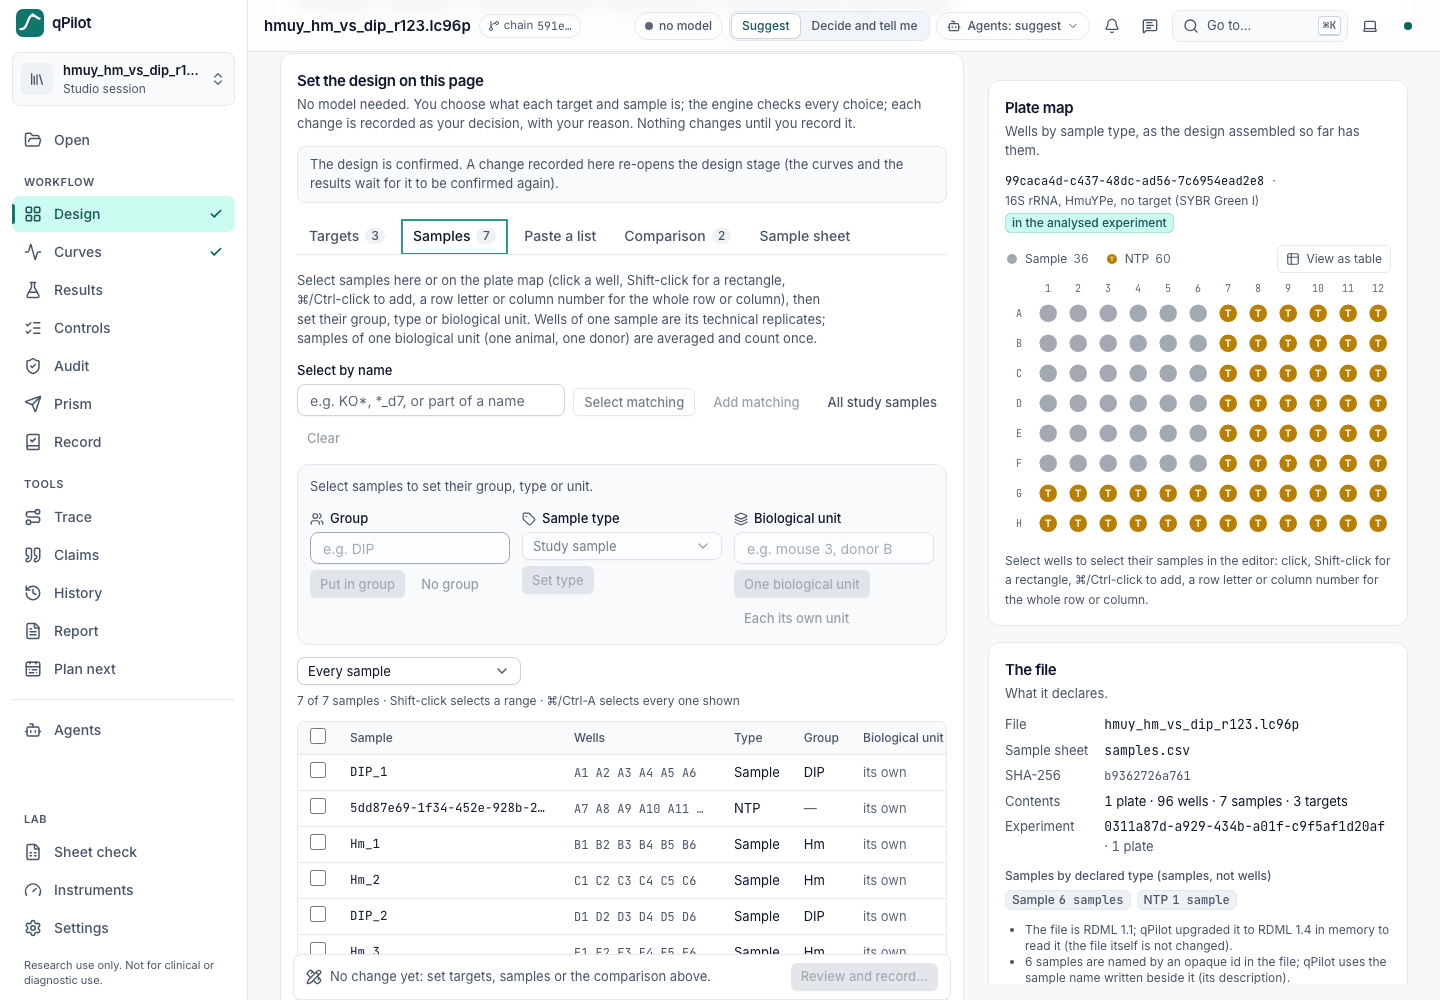
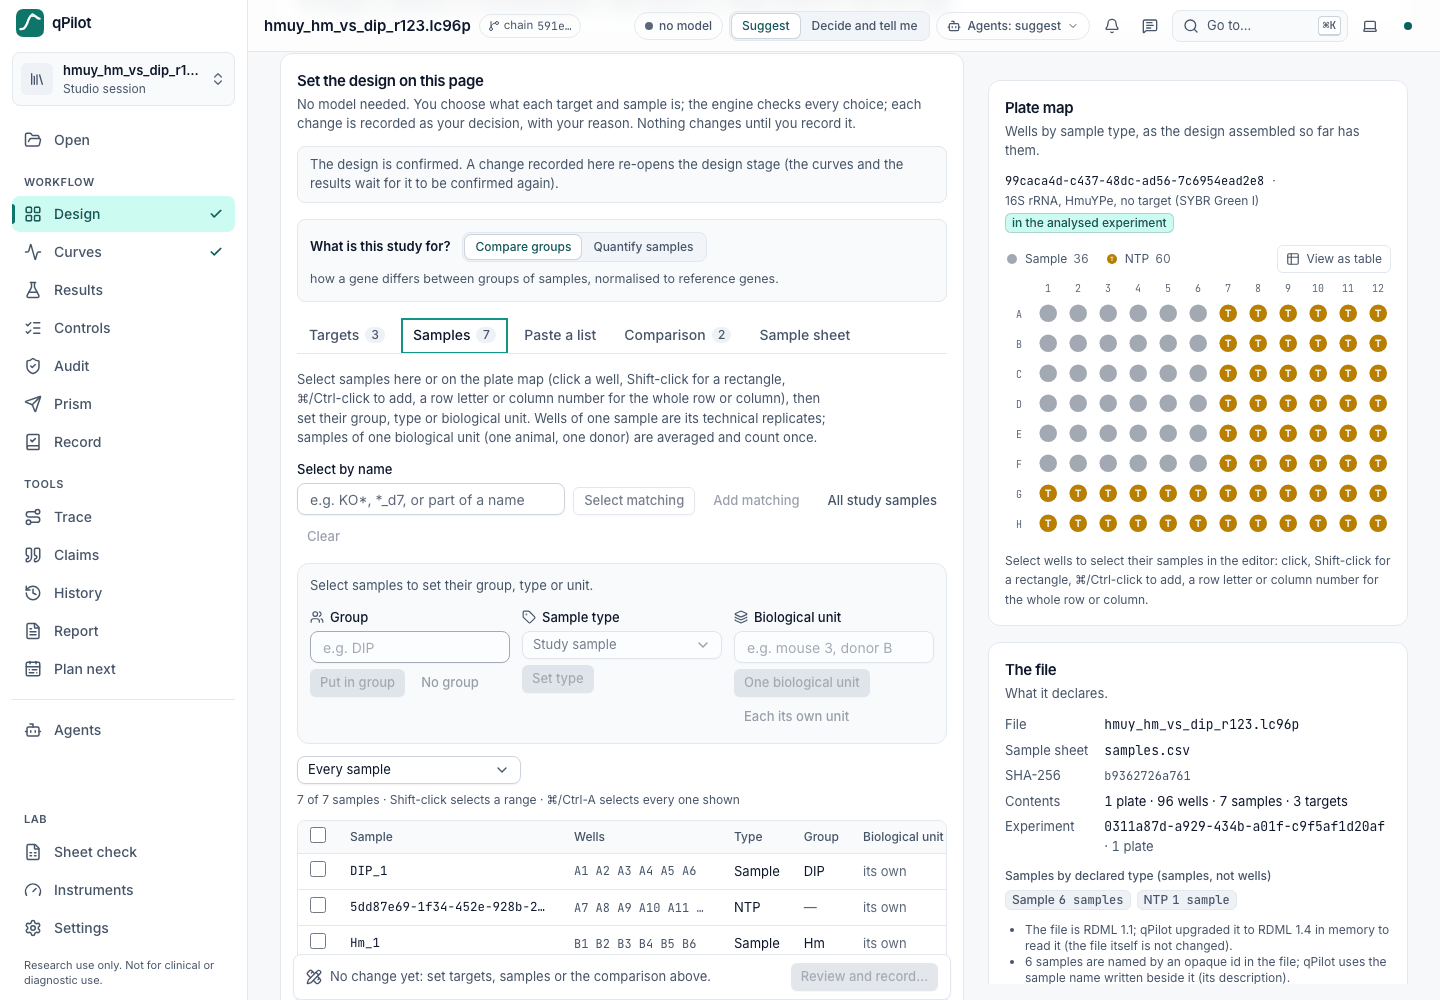
docs(images): the Design editor with its purpose picker

Changed region(s): [[0.1875, 0.217, 0.6562, 0.961], [0.5312, 0.217, 0.5938, 0.248]]

diff --git a/README.md b/README.md
@@ -80,7 +80,7 @@ From the instrument's raw curves to a record anyone can re-run, on the same stud
 <table>
 <tr>
 <td width="50%" valign="top"><img src="docs/images/results.png" alt="Results: the robustness map of 58 genes and the Decision Cards, each option with what it changes for the headline genes"><br><sub><b>Results</b> (demo study): every gene's call against how often it holds, and the choices that could change it, waiting for a person.</sub></td>
-<td width="50%" valign="top"><img src="docs/images/design-editor.png" alt="The Design editor: samples of a LightCycler 96 plate with their groups, and the plate map"><br><sub><b>Design, no model</b> (a LightCycler 96 file from Zenodo): select samples or wells, set groups, types and units; each change is recorded with your reason.</sub></td>
+<td width="50%" valign="top"><img src="docs/images/design-editor.png" alt="The Design editor: what the study is for (compare groups or quantify samples), the samples of a LightCycler 96 plate with their groups, and the plate map"><br><sub><b>Design, no model</b> (a LightCycler 96 file from Zenodo): say what the study is for, select samples or wells, set groups, types and units; each change is recorded with your reason.</sub></td>
 </tr>
 <tr>
 <td valign="top"><img src="docs/images/controls-melt.png" alt="Controls: a G-MELT check opened, three wells' melt curves with one peak at 82 °C inside the expected band"><br><sub><b>Controls</b> (the same plate): a G-MELT check with its wells' melt curves and the assay's expected Tm ± 1 °C.</sub></td>
